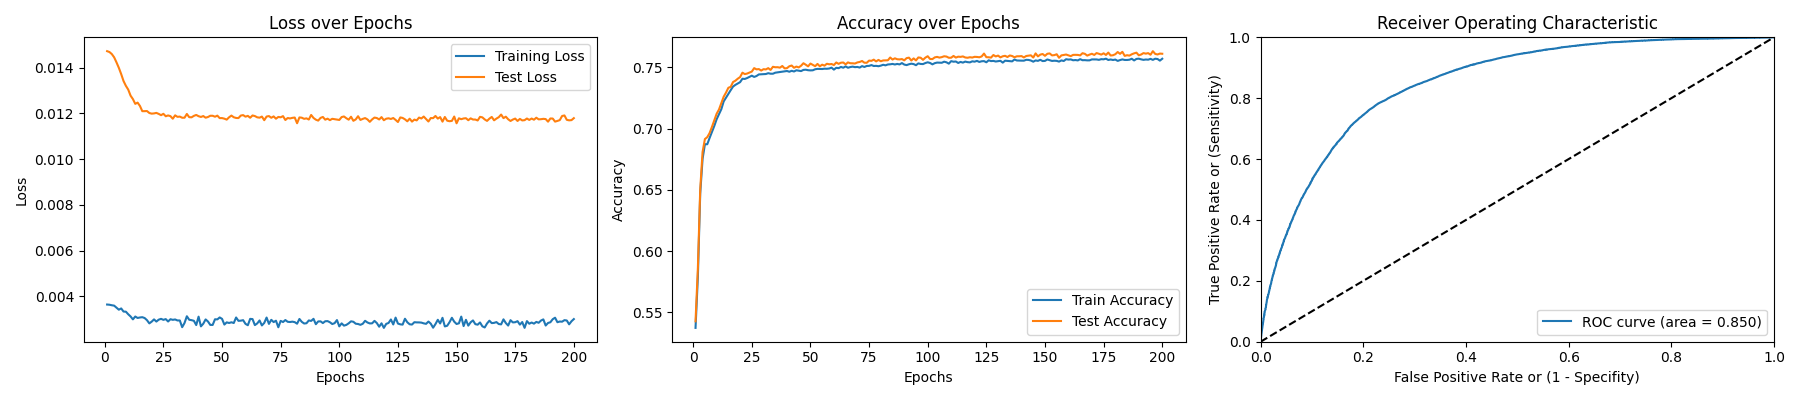
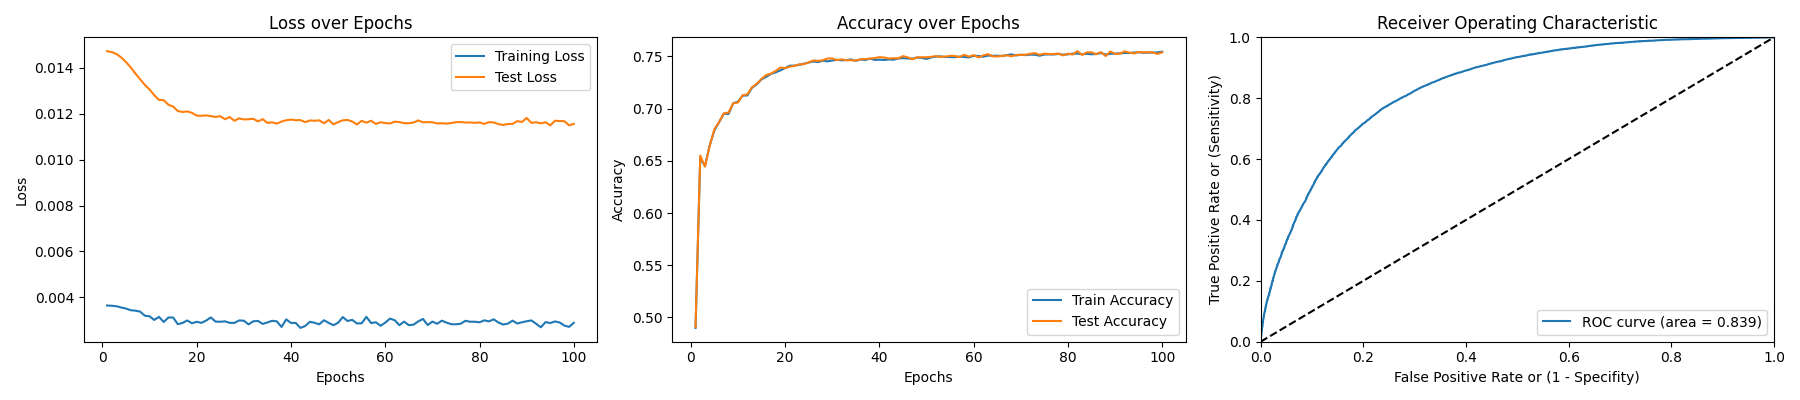
normalizing jetnet pt with log and some changes to the energyflow normalization

diff --git a/analysis/graph_constructor.py b/analysis/graph_constructor.py
@@ -25,7 +25,8 @@ def _construct_particle_graphs_pyg(
         graph_structures,
         N=500000,
         dataset='jetnet',
-        eec_prop=[[2, 3, 4], 200, (1e-3, 2)], # [N, bins, (R_Lmin, R_Lmax)]
+        reclusterJets=False,
+        eec_prop=[[2], 500, (1e-3, 2)], # [N, bins, (R_Lmin, R_Lmax)]
         additional_node_attrs=None,
         additional_edge_attrs=None, # None or eec_with_pids or eec_with_charges or eec_without_charges
         additional_graph_attrs=None,
@@ -38,7 +39,7 @@ def _construct_particle_graphs_pyg(
             "num_particles": 30,  # we retain only the 30 highest pT particles for this demo
             "jet_features": ["type", "pt", "eta", "mass"],
             "particle_normalisation": FeaturewiseLinear(
-                normal=True, normalise_features=[True, True, True]
+                normal=True, normalise_features=[False, True, True]
             ),
             # pass our function as a transform to be applied to the jet features
             "jet_transform": OneHotEncodeType,
@@ -60,49 +61,55 @@ def _construct_particle_graphs_pyg(
         # Load dataset
         X, y = energyflow.qg_jets.load(N, pad=False)
         # energyflow.utils.remap_pids(X)
-
-        # Reclustering the jets using fastjet to check the clustering
-        print(f'  Reclustering jets using fastjet...')
         
-        inclusive_jets = [[0, 0, 0, 0] for _ in range(len(X))]
-
-        for i in range(len(X)):
-            X[i] = energyflow.p4s_from_ptyphipids(X[i])
-            X[i] = X[i].astype(np.float64)
+        if reclusterJets:
         
-            # Input to fastjet as an awkward array
-            particleAwk = ak.zip({"px": X[i][:, 1], "py": X[i][:, 2], "pz": X[i][:, 3], "E": X[i][:, 0]})
-        
-            # Reclustering the jets
-            reclustered_jets, inclusive_jet = reclusterJets(particleAwk, R=0.4, pt_cut=0)
-        
-            # For jet kinematics plot
-            inclusive_jets[i][1] = ak.to_numpy(ak.unzip(inclusive_jet))[0]
-            inclusive_jets[i][2] = ak.to_numpy(ak.unzip(inclusive_jet))[1]
-            inclusive_jets[i][3] = ak.to_numpy(ak.unzip(inclusive_jet))[2]
-            inclusive_jets[i][0] = ak.to_numpy(ak.unzip(inclusive_jet))[3]
-
-            # For particle graphs 
-            X[i][:, 1] = ak.to_numpy(ak.unzip(reclustered_jets))[0]
-            X[i][:, 2] = ak.to_numpy(ak.unzip(reclustered_jets))[1]
-            X[i][:, 3] = ak.to_numpy(ak.unzip(reclustered_jets))[2]
-            X[i][:, 0] = ak.to_numpy(ak.unzip(reclustered_jets))[3]
-        
-            X[i] = energyflow.ptyphims_from_p4s(X[i])
+            # Reclustering the jets using fastjet to check the clustering
+            print(f'  Reclustering jets using fastjet...')
             
-            # deleting the mass column from the jets
-            X[i] = np.delete(X[i], 3, 1)
+            inclusive_jets = [[0, 0, 0, 0] for _ in range(len(X))]
 
-        plot_jet_kinematics(inclusive_jets)
-        
-        print("  Reclustering done.")
+            for i in range(len(X)):
+                X[i] = energyflow.p4s_from_ptyphipids(X[i])
+                X[i] = X[i].astype(np.float64)
+            
+                # Input to fastjet as an awkward array
+                particleAwk = ak.zip({"px": X[i][:, 1], "py": X[i][:, 2], "pz": X[i][:, 3], "E": X[i][:, 0]})
+            
+                # Reclustering the jets
+                reclustered_jets, inclusive_jet = reclusterJets(particleAwk, R=0.4, pt_cut=0)
+            
+                # For jet kinematics plot
+                inclusive_jets[i][1] = ak.to_numpy(ak.unzip(inclusive_jet))[0]
+                inclusive_jets[i][2] = ak.to_numpy(ak.unzip(inclusive_jet))[1]
+                inclusive_jets[i][3] = ak.to_numpy(ak.unzip(inclusive_jet))[2]
+                inclusive_jets[i][0] = ak.to_numpy(ak.unzip(inclusive_jet))[3]
+
+                # For particle graphs 
+                X[i][:, 1] = ak.to_numpy(ak.unzip(reclustered_jets))[0]
+                X[i][:, 2] = ak.to_numpy(ak.unzip(reclustered_jets))[1]
+                X[i][:, 3] = ak.to_numpy(ak.unzip(reclustered_jets))[2]
+                X[i][:, 0] = ak.to_numpy(ak.unzip(reclustered_jets))[3]
+            
+                X[i] = energyflow.ptyphims_from_p4s(X[i])
+                
+                # deleting the mass column from the jets
+                X[i] = np.delete(X[i], 3, 1)
+
+            plot_jet_kinematics(inclusive_jets)
+            
+            print("  Reclustering done.")
 
         # Preprocess by centering jets and normalizing pts
         for x in tqdm.tqdm(X, desc='  Preprocessing jets', total=len(X)):
             mask = x[:,0] > 0
             yphi_avg = np.average(x[mask,1:3], weights=x[mask,0], axis=0)
             x[mask,1:3] -= yphi_avg
-            x[mask,0] /= x[:,0].sum()
+
+            # normalizing pt
+            x[mask,0] = np.log(x[mask,0])
+            x[mask,0] = (x[mask,0] - x[mask,0].mean()) / x[mask,0].std()
+
 
     if dataset == 'jetnet':
         print(f'Constructing PyG particle graphs from JetNet dataset...')
@@ -111,7 +118,25 @@ def _construct_particle_graphs_pyg(
         X, y = JetNet(**data_args_jetnet)[:]
         X = X.numpy()
         y = y.numpy()[:, 0].astype(int)
-        plot_jet_kinematics(X, input_type='hadronic')
+
+        # Reshaping and filtering out zero-padded rows
+        result = []
+        
+        for i in range(X.shape[0]):
+            # Filter out zero-padded rows
+            non_zero_particles = X[i][~np.all(X[i] == 0, axis=1)]
+            result.append(non_zero_particles)
+
+        X = result
+
+        # # Preprocess by centering jets and normalizing pts
+        # for x in tqdm.tqdm(X, desc='  Preprocessing jets', total=len(X)):
+        #
+        #     # normalizing pt
+        #     x[:, 0] = np.log(x[: ,0])
+        #     x[:,0] = (x[:,0] - x[:,0].mean()) / x[:,0].std()
+
+        # plot_jet_kinematics(X, input_type='hadronic')
 
     # Calculate EnergyEnergyCorrelation (EEC) features
     if additional_edge_attrs == 'eec_with_charges':
@@ -125,6 +150,15 @@ def _construct_particle_graphs_pyg(
         additional_edge_attrs = []
         for i in range(len(eec_prop[0])):
             additional_edge_attrs.append(get_eec_ls_values(X, N=eec_prop[0][i], bins=eec_prop[1], axis_range=eec_prop[2]))
+
+
+    # Preprocess jets by normalizing pt
+    for x in tqdm.tqdm(X, desc='  Preprocessing jets', total=len(X)):
+
+        # normalizing pt
+        x[:, 0] = np.log(x[: ,0])
+        x[:,0] = (x[:,0] - x[:,0].mean()) / x[:,0].std()
+
 
     # Create output directory if it doesn't exist
     if not os.path.exists(output_dir):
@@ -170,6 +204,8 @@ def _construct_particle_graph_pyg(
     x = x[~np.all(x == 0, axis=1)]
     node_features = torch.tensor(x, dtype=torch.float)
 
+    print(node_features)
+
     # Edge connectivity -- fully connected
     adj_matrix = np.ones((x.shape[0], x.shape[0])) - np.identity((x.shape[0]))
     row, col = np.where(adj_matrix)
@@ -195,7 +231,6 @@ def _construct_particle_graph_pyg(
         for i in range(len(additional_edge_attrs)):
             edge_attrs.append(normalize_array(np.array(list(additional_edge_attrs[i].get_hist_errs(0, False)[0]))))
 
-        #  
         for i, j in zip(row, col):
             delta_y = x[i][1] - x[j][1]
             delta_phi_abs = abs(x[i][2] - x[j][2])
@@ -213,11 +248,13 @@ def _construct_particle_graph_pyg(
 
             # Get the histogram value for the bin
             for i in range(len(additional_edge_attrs)):
-                edge_features[i].append(additional_edge_attrs[i].get_hist_errs(0, False)[0][bin_index])
+                edge_features[i].append(edge_attrs[i][bin_index])
 
 
         edge_features_tensor = torch.tensor(edge_features, dtype=torch.float)
         edge_features_tensor = edge_features_tensor.t() # Transpose to dim (n_edges, n_features)
+        print(edge_features_tensor)
+        exit()
 
         # # Zero pad edge_features_tensor to match the dimension of edge_indices_long
         # if edge_features_tensor.size(0) < edge_indices_long.size(1):

diff --git a/analysis/utils.py b/analysis/utils.py
@@ -83,9 +83,15 @@ def plot_jet_kinematics(inclusive_jet, input_type=''):
     for jet in inclusive_jet:
 
         if input_type=='hadronic':
-            pt = jet[0]
-            y = jet[1]
-            phi = jet[2]
+
+            pt = jet[:, 0]
+            y = jet[:, 1]
+            phi = jet[:, 2]
+
+            print(pt)
+            # pt = jet[0]
+            # y = jet[1]
+            # phi = jet[2]
 
         else:
             # Extract E, px, py, pz
@@ -107,23 +113,42 @@ def plot_jet_kinematics(inclusive_jet, input_type=''):
     # Create subplots
     fig, axs = plt.subplots(1, 3, figsize=(15, 5))
     
-    # Plot pt vs y
-    axs[0].scatter(pt_list, y_list)
+    # Plot pt 
+    axs[0].hist(pt_list, bins=50)
     axs[0].set_xlabel('pt')
-    axs[0].set_ylabel('y')
-    axs[0].set_title('pt vs y')
-    
-    # Plot y vs phi
-    axs[1].scatter(y_list, phi_list)
-    axs[1].set_xlabel('y')
-    axs[1].set_ylabel('phi')
-    axs[1].set_title('y vs phi')
+    axs[0].set_ylabel('Frequency')
+    axs[0].set_title('pt')
 
-    # Plot pt vs phi
-    axs[2].scatter(pt_list, phi_list)
-    axs[2].set_xlabel('pt')
-    axs[2].set_ylabel('phi')
-    axs[2].set_title('pt vs phi')
+    # Plot y
+    axs[1].hist(y_list, bins=50)
+    axs[1].set_xlabel('y')
+    axs[1].set_ylabel('Frequency')
+    axs[1].set_title('y')
+    
+    # Plot phi
+    axs[2].hist(phi_list, bins=50)
+    axs[2].set_xlabel('phi')
+    axs[2].set_ylabel('Frequency')
+    axs[2].set_title('phi')
+
+
+    # # Plot pt vs y
+    # axs[0].scatter(pt_list, y_list)
+    # axs[0].set_xlabel('pt')
+    # axs[0].set_ylabel('y')
+    # axs[0].set_title('pt vs y')
+    # 
+    # # Plot y vs phi
+    # axs[1].scatter(y_list, phi_list)
+    # axs[1].set_xlabel('y')
+    # axs[1].set_ylabel('phi')
+    # axs[1].set_title('y vs phi')
+    #
+    # # Plot pt vs phi
+    # axs[2].scatter(pt_list, phi_list)
+    # axs[2].set_xlabel('pt')
+    # axs[2].set_ylabel('phi')
+    # axs[2].set_title('pt vs phi')
 
     # Save the plot
     plt.tight_layout()

diff --git a/analysis/ml_analysis.py b/analysis/ml_analysis.py
@@ -5,12 +5,15 @@ import numpy as np
 from sklearn import metrics
 import torch.nn as nn
 import torch.nn.functional as F
+from torch.nn.modules import loss
 import torch.optim as optim
 from torch_geometric.nn import GCNConv, GATConv, HypergraphConv, global_mean_pool
 from torch.utils.data import random_split
 from torch_geometric.loader import DataLoader
 import matplotlib.pyplot as plt
 from tqdm import tqdm
+
+from jetnet.losses import EMDLoss
 
 class HyperGraphNet(torch.nn.Module):
     def __init__(self, in_channels, hidden_channels, out_channels):
@@ -69,6 +72,11 @@ class GAT(torch.nn.Module):
         x = F.relu(x)
         x = self.dropout(x)
 
+        x = self.conv2(x, edge_index)
+        x = F.relu(x)
+        x = self.dropout(x)
+
+        # testing another hidden layer 
         x = self.conv2(x, edge_index)
         x = F.relu(x)
         x = self.dropout(x)
@@ -304,7 +312,7 @@ class MLAnalysis:
         plt.savefig("./metrics_plot/metrics_plot"+"_"+str(self.input_dim)+"_"+\
             str(self.hidden_dim)+"_"+str(self.model.__class__.__name__)+"_"+str(self.batch_size)+"_"+str(self.learning_rate)+".png")
 
-analysis = MLAnalysis(3, 6, 2, model="GAT", batch_size=1024, learning_rate=0.0001, epochs=200)
+analysis = MLAnalysis(3, 6, 2, model="GAT", batch_size=1024, learning_rate=0.0005, epochs=100)
 
 analysis.load_data()
 
